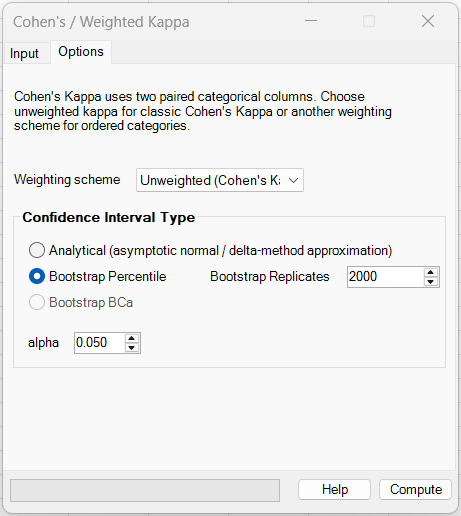
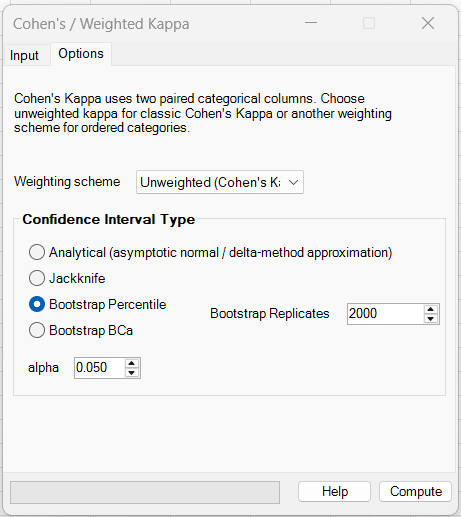
docs updated to version 0.7.6.0

diff --git a/BESHStatNG_Help_MkDocs/docs/methods/cohens-kappa.md b/BESHStatNG_Help_MkDocs/docs/methods/cohens-kappa.md
@@ -1,6 +1,6 @@
 # Cohen's / Weighted Kappa
 
-**Includes:** Unweighted Cohen's kappa, linear weighted kappa, quadratic weighted kappa, Cicchetti–Allison and Fleiss–Cohen weighting schemes, analytical and bootstrap confidence intervals, approximate hypothesis test of \(H_0: \kappa = 0\), confusion matrix, and weight-matrix output.  
+**Includes:** Unweighted Cohen's kappa, linear weighted kappa, quadratic weighted kappa, Cicchetti–Allison and Fleiss–Cohen weighting schemes, analytical, jackknife, and bootstrap confidence intervals, approximate hypothesis test of \(H_0: \kappa = 0\), confusion matrix, and weight-matrix output.  
 **Purpose:** Use when **two paired categorical ratings** are assigned to the same items and you want a **chance-corrected measure of agreement**.
 
 ---
@@ -132,7 +132,7 @@ Use when you want the classic quadratic ordinal weighting convention.
 
 ### Confidence Interval Type
 
-The current UI provides three choices.
+The current UI provides four choices.
 
 #### 1) Analytical
 This is the fastest option.
@@ -153,7 +153,21 @@ Use this when:
 - speed matters,
 - you want a standard asymptotic interval.
 
-#### 2) Bootstrap Percentile
+#### 2) Jackknife
+The add-in:
+
+1. leaves out one paired row at a time,
+2. recomputes kappa for each leave-one-out sample,
+3. estimates the jackknife standard error from the leave-one-out distribution,
+4. forms a t-based confidence interval around the observed kappa estimate.
+
+Use this when:
+
+- you want a non-bootstrap resampling interval,
+- the sample size is moderate,
+- you want a resampling-based alternative to the asymptotic delta-method interval.
+
+#### 3) Bootstrap Percentile
 The add-in:
 
 1. resamples paired rows with replacement,
@@ -166,12 +180,21 @@ Use this when:
 - marginal distributions are uneven,
 - you want an interval less dependent on asymptotic approximations.
 
-#### 3) Bootstrap BCa
+#### 4) Bootstrap BCa
 The UI exposes a BCa option.
 
-At present, the kappa back-end reports this as a **percentile-bootstrap fallback** in the notes, rather than a fully separate BCa implementation.
+The add-in:
 
-Use it only if you want the same bootstrap workflow while keeping the option visible in the report; the output notes will clarify the fallback.
+1. resamples paired rows with replacement,
+2. recomputes kappa in each bootstrap sample,
+3. uses jackknife leave-one-out estimates to obtain the BCa acceleration term,
+4. forms a **bias-corrected and accelerated (BCa)** interval.
+
+Use this when:
+
+- you want a bootstrap interval that adjusts for bias and skewness,
+- the category distribution is uneven,
+- you want a more refined bootstrap CI than the simple percentile interval.
 
 ### Bootstrap seed and reproducibility
 
@@ -211,7 +234,8 @@ which corresponds to a 95% confidence interval.
 1. Ribbon: **BESH Stat NG → Analyse → Agreement → Cohen's / Weighted Kappa**
 2. Select the two paired categorical columns.
 3. Choose the **Weighting scheme**.
-4. Choose the **Confidence Interval Type** and set \(\alpha\).
+4. Choose the **Confidence Interval Type** and set \(\alpha\).  
+   If you choose **Bootstrap Percentile** or **Bootstrap BCa**, also set the number of bootstrap replicates.
 5. Click **Compute**.
 
 ---
@@ -319,7 +343,7 @@ The output includes:
 - approximate z test and p-value,
 - confusion matrix,
 - weight matrix,
-- notes (including the bootstrap seed if bootstrap CI is used, and any BCa-to-percentile fallback note).
+- notes (including bootstrap or jackknife run details when resampling is used).
 
 ### Interpretation of the main quantities
 
@@ -435,6 +459,12 @@ Use **Bootstrap Percentile** when:
 - category marginals are highly unbalanced,
 - you want a more data-driven interval.
 
+Use **Jackknife** when:
+
+- you want a resampling-based interval without bootstrap sampling,
+- you want the interval to depend on systematic leave-one-out perturbations of the paired ratings,
+- you want a middle ground between the asymptotic analytical interval and full bootstrap resampling.
+
 ---
 
 ## Reference R code
@@ -482,7 +512,6 @@ irr::kappa2(d, weight = "squared")
 - Kappa depends on the marginal category distributions and can be reduced even when observed agreement is high.
 - Weighted kappa requires a meaningful and correct category order.
 - The analytical CI is asymptotic and may be less reliable in small samples or with sparse tables.
-- Bootstrap BCa is currently reported as a percentile-bootstrap fallback in the output notes.
 - Interpretation rules such as “slight / fair / moderate / substantial / almost perfect” are heuristics, not universal scientific standards.
 
 ---

diff --git a/BESHStatNG_Help_MkDocs/docs/methods/lins-ccc.md b/BESHStatNG_Help_MkDocs/docs/methods/lins-ccc.md
@@ -1,6 +1,6 @@
 # Lin's Concordance Correlation Coefficient
 
-**Includes:** Lin's Concordance Correlation Coefficient (CCC), Pearson correlation, bias-correction factor **Cb**, analytical CI via **Fisher z approximation**, **Bootstrap Percentile** or **Bootstrap BCa** (currently reported as a percentile-bootstrap fallback in computation notes), approximate hypothesis test for a selected **Null Concordance**, bias decomposition (**location shift** and **scale shift**), and concordance scatter plot with identity line.  
+**Includes:** Lin's Concordance Correlation Coefficient (CCC), Pearson correlation, bias-correction factor **Cb**, analytical CI via **Fisher z approximation**, **Bootstrap Percentile** or **Bootstrap BCa**, approximate hypothesis test for a selected **Null Concordance**, bias decomposition (**location shift** and **scale shift**), and concordance scatter plot with identity line.  
 **Purpose:** Use when you want to quantify **agreement** between two paired numeric measurement methods and separate overall agreement into **precision** and **accuracy** components.
 
 ---
@@ -123,12 +123,13 @@ Use this when:
 
 #### 3) Bootstrap BCa
 
-The GUI exposes **Bootstrap BCa**, but the current implementation reports this as a **percentile-bootstrap fallback** in the computation notes.
+This option resamples the **paired observations** with replacement and computes a **bias-corrected and accelerated (BCa)** interval from the bootstrap distribution plus the jackknife acceleration term.
 
-So at present:
+Use this when:
 
-- the UI lets you select BCa
-- the output notes explain that percentile-bootstrap limits were used instead
+- you want a bootstrap interval that adjusts for both bias and skewness,
+- the percentile interval looks asymmetric or sample size is modest,
+- you want a more refined bootstrap CI than simple percentile limits.
 
 ### Which CI option should I prefer?
 
@@ -139,7 +140,7 @@ So at present:
   Best when you want fewer distributional assumptions and can afford more computation time.
 
 - **Bootstrap BCa**  
-  Currently best interpreted as a placeholder for future refinement; for now it behaves like percentile bootstrap and the output notes make that explicit.
+  Best when you want a bootstrap interval with bias correction and acceleration rather than a simple percentile interval.
 
 ---
 
@@ -338,7 +339,7 @@ The results worksheet contains:
 - **Location shift**
 - **Scale shift**
 - **Approximate null-concordance test**
-- **Computation notes** (for example bootstrap details, bootstrap seed, and any BCa-to-percentile fallback note)
+- **Computation notes** (for example bootstrap details and bootstrap seed)
 
 ### How to interpret the main quantities
 
@@ -435,7 +436,6 @@ obs
 - `DescTools::CCC()` and other packages may define **location shift** and **scale shift** in the opposite direction depending on whether they use test/reference or reference/test ordering.
 - Some software reports only the concordance coefficient and not the full decomposition.
 - Some software uses different asymptotic formulas or bootstrap defaults for confidence intervals.
-- The add-in currently reports **Bootstrap BCa** as a percentile-bootstrap fallback in the computation notes.
 - Bootstrap intervals may differ slightly across software because of random seed handling, percentile interpolation, and implementation-specific defaults.
 
 ---

diff --git a/BESHStatNG_Help_MkDocs/docs/methods/deming-regression.md b/BESHStatNG_Help_MkDocs/docs/methods/deming-regression.md
@@ -1,6 +1,6 @@
 # Deming Regression
 
-**Includes:** Classical Deming regression (constant error ratio), orthogonal regression as a special case when the error ratio is 1, and generalized weighted Deming regression with **constant lambda**, **constant CV**, or **known pointwise SD** variance models; confidence intervals via **Jackknife**, **Analytical – Linnet (jackknife pseudo-values)**, **Analytical (closed form / linearization)**, **Bootstrap Percentile**, or **Bootstrap BCa** (currently reported as a percentile-bootstrap fallback where applicable); regression plot with unity line.  
+**Includes:** Classical Deming regression (constant error ratio), orthogonal regression as a special case when the error ratio is 1, and generalized weighted Deming regression with **constant lambda**, **constant CV**, or **known pointwise SD** variance models; confidence intervals via **Jackknife**, **Analytical – Linnet (jackknife pseudo-values)**, **Analytical (closed form / linearization)**, **Bootstrap Percentile**, or **Bootstrap BCa**; regression plot with unity line.  
 **Purpose:** Use when **both X and Y have measurement error** and you want a symmetric method-comparison regression.
 
 ---
@@ -198,13 +198,16 @@ The results footnote reports:
 
 #### 5) Bootstrap BCa
 
-The UI exposes a BCa option.
+The add-in:
 
-At present, the Deming backend reports this as a **percentile-bootstrap fallback** with a note in the output, rather than a fully separate BCa implementation.
+1. resamples paired observations with replacement,
+2. refits the Deming model in each bootstrap sample,
+3. uses jackknife leave-one-out estimates to obtain the BCa acceleration term,
+4. forms **bias-corrected and accelerated (BCa)** intervals for intercept and slope.
 
 The results footnote reports:
 
-- **SE / CI type = Bootstrap BCa fallback (percentile)**
+- **SE / CI type = Bootstrap BCa**
 
 ### Bootstrap seed and reproducibility
 
@@ -239,7 +242,7 @@ This makes the bootstrap interval reproducible when the same input data, setting
   Good when you want a non-analytic interval and can afford more computation time.
 
 - **Bootstrap BCa**  
-  Exposed in the UI, but currently documented as a percentile-bootstrap fallback in the output notes.
+  Best when you want a bootstrap interval that adjusts for bias and skewness instead of using simple percentile limits.
 
 ---
 
@@ -569,7 +572,6 @@ A practical workflow is often to report both:
 - If the association is degenerate (for example \(S_{xy}=0\) in the classical model), the slope is undefined.
 - **Analytical – Linnet** and **Analytical (closed form)** are primarily classical constant-lambda Deming options.
 - For generalized weighted models, if an exact analytical interval is not implemented, the add-in falls back to jackknife and reports that in the notes.
-- The UI exposes **Bootstrap BCa**, but the current backend reports this as a percentile-bootstrap fallback.
 
 ---
 

diff --git a/BESHStatNG_Help_MkDocs/docs/index.md b/BESHStatNG_Help_MkDocs/docs/index.md
@@ -146,7 +146,7 @@ Choose a method below. Each page explains what the method does, what data it exp
 - [Deming Regression](methods/deming-regression.md) — *Deming (errors-in-variables) regression with configurable error ratio (λ), weighted/generalized variance models, point estimates and confidence intervals.* Use when both X and Y have measurement error and you want a symmetric method-comparison regression.
 - [Bland–Altman Analysis](methods/bland-altman.md) — *Simple paired and repeated-measures Bland–Altman analysis, bias and limits of agreement (LoA), analytical / jackknife / bootstrap confidence intervals, proportional-bias check, raw-difference / percentage / log-ratio scales, several x-axis conventions, and Bland–Altman plots.* Use when you want to assess agreement between two paired measurement methods and quantify the expected size of their differences, rather than only their association.
 - [Lin's Concordance Correlation Coefficient](methods/lins-ccc.md) — *Lin CCC, Pearson r, bias-correction factor Cb, analytical or bootstrap confidence intervals, null-concordance test, and identity-line plot.* Use when you want a compact agreement measure for two paired numeric methods and a decomposition into precision and accuracy.
-- [Cohen's / Weighted Kappa](methods/cohens-kappa.md) — *Cohen's kappa (unweighted), linear / quadratic weighted kappa, Cicchetti–Allison and Fleiss–Cohen weighting schemes, analytical and bootstrap confidence intervals, confusion matrix, and weight-matrix output.* Use when two paired categorical ratings are assigned to the same items and you want a chance-corrected measure of agreement.
+- [Cohen's / Weighted Kappa](methods/cohens-kappa.md) — *Cohen's kappa (unweighted), linear / quadratic weighted kappa, Cicchetti–Allison and Fleiss–Cohen weighting schemes, analytical, jackknife, and bootstrap confidence intervals, confusion matrix, and weight-matrix output.* Use when two paired categorical ratings are assigned to the same items and you want a chance-corrected measure of agreement.
 - [Intraclass Correlation Coefficients](methods/intraclass-correlation-coefficients.md) — *ICC(1,1), ICC(1,k), ICC(2,1), ICC(2,k), ICC(3,1), ICC(3,k) with confidence intervals, Repeatability Coefficient.* Quantify reliability/agreement of measurements across raters/replicates using standard ICC families.
 
 ## BESH Stat NG - User Defined Functions (UDF)

diff --git a/BESHStatNG_Help_MkDocs/docs/whats-new.md b/BESHStatNG_Help_MkDocs/docs/whats-new.md
@@ -1,8 +1,10 @@
 # What's New
 
-## version 0.7.x.0 (2026-0x-xx)
+## version 0.7.6.0 (2026-04-26)
 - Added model-reporting tools for fitted binary classifiers, including confusion matrix, threshold-performance table, sensitivity/specificity and precision/recall summaries, calibration analysis, Brier score, ROC tables, and ROC plot outputs for binomial GLM and binomial GEE models. The same reporting workflow is also available through new generic classification UDFs for scoring external or holdout predictions directly in Excel.
-
+- Agreement-method bootstrap BCa intervals are now implemented in the backend for Lin's CCC, Cohen's / Weighted Kappa, Deming regression, and Bland–Altman analysis.
+- The Excel dialog for Cohen's / Weighted Kappa now exposes the backend jackknife confidence interval option.
+- Improved numerical accuracy of the linear regression estimation to pass NIST reference datasets results unittests.
 
 ## version 0.7.1.0 (2026-04-17)
 

diff --git a/BESHStatNG_Help_MkDocs/docs/udf/regression-models.md b/BESHStatNG_Help_MkDocs/docs/udf/regression-models.md
@@ -1702,7 +1702,7 @@ per-column precision percentages, and overall classification accuracy.
 ### Notes
 
 The classification table is based on assigning each observation to the category with the largest fitted probability.
-The category columns are shown in the model's internal category order, which depends on the reference-category choice used during fitting.
+The row and column labels are shown in the original ascending category order, independent of the reference-category choice used during fitting.
 
 ### Example
 
